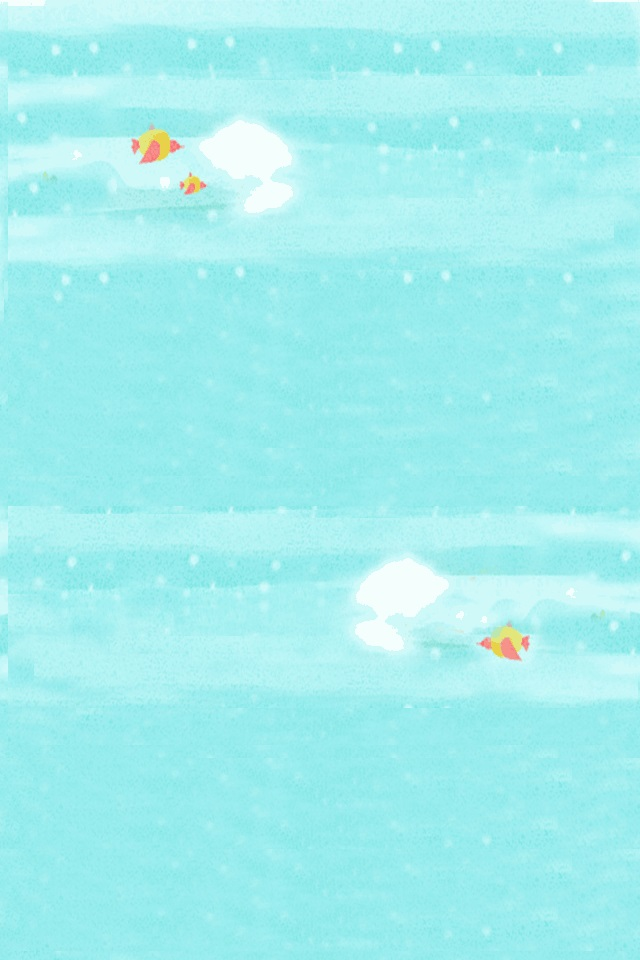
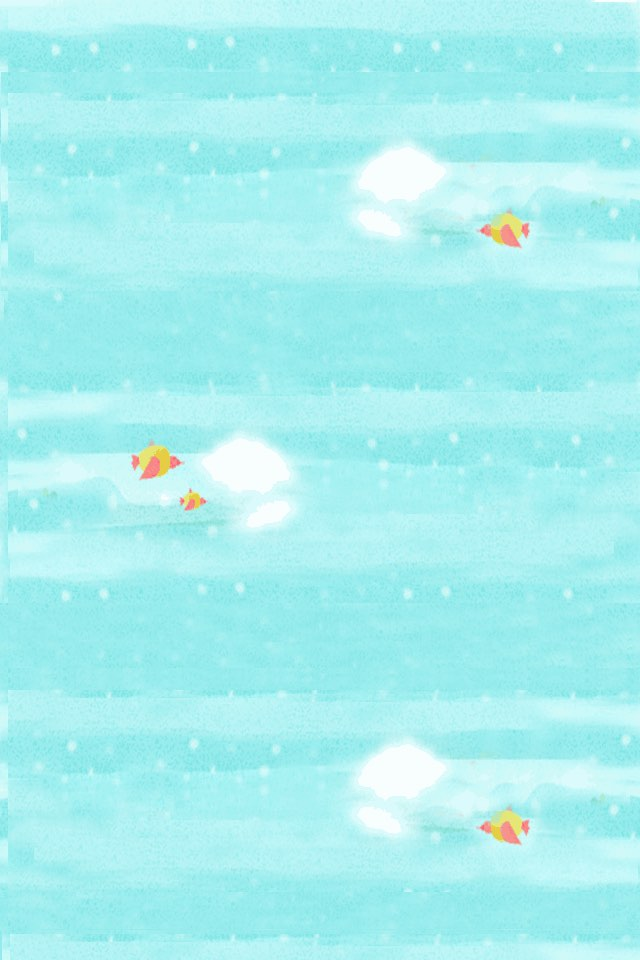
发布v1.0
调整广告，游戏分辨率，元素图

diff --git a/src/BackgroundLayer.js b/src/BackgroundLayer.js
@@ -12,15 +12,14 @@ var BackgroundLayer = cc.Layer.extend({
 
     init:function () {
         this._super();
-        var winsize = cc.director.getWinSize();
-        var centerPos = cc.p(winsize.width / 2, winsize.height / 2);
+
         var spriteBG = new cc.Sprite(res.PlayBG_png);
-        spriteBG.scale = 0.5;
+        //spriteBG.scale = 0.5;
         spriteBG.setPosition(cc.p(0,0));
         spriteBG.anchorX = 0;
         spriteBG.anchorY = 0;
         this.addChild(spriteBG);
-        this.cloude(4, this.bk_index*this.winsize.height);
+        this.cloude(4, this.bk_index*g_game_h);
         this.scheduleUpdate();
     },
     rangeRandom:function (n,m){
@@ -31,12 +30,12 @@ var BackgroundLayer = cc.Layer.extend({
     cloude:function(num, base_y){
         while(num--){
             var cloud = new cc.Sprite(res.cloud_png);
-            cloud.scale = this.rangeRandom(3,7)*0.1;
+            cloud.scale = this.rangeRandom(5,12)*0.1;
             cc.log(this.rangeRandom(0.2,0.5));
-            var move_to_y = base_y + this.rangeRandom(20,this.winsize.height);
-            if (move_to_y < 300)
+            var move_to_y = base_y + this.rangeRandom(20,g_game_h);
+            if (move_to_y < 600)
                 return;
-            var move_to_x = this.rangeRandom(0,2)%2 * this.winsize.width; //0 或 320
+            var move_to_x = this.rangeRandom(0,2)%2 * g_game_w; //0 或 320
 
             cloud.setPosition(cc.p(this.rangeRandom(100,220),move_to_y));
             cloud.runAction(new cc.MoveTo(this.rangeRandom(10,30), cc.p(move_to_x,move_to_y )));
@@ -46,16 +45,16 @@ var BackgroundLayer = cc.Layer.extend({
     },
 
     checkAndReload:function (pos) {
-        if(pos.y > this.winsize.height*this.bk_index){
+        if(pos.y >= g_game_h*this.bk_index){
             this.bk_index++;
 
             var spriteBG = new cc.Sprite(res.PlayBG2_png);
-            spriteBG.setPosition(cc.p(0,this.bk_index*this.winsize.height));
+            spriteBG.setPosition(cc.p(0,this.bk_index*g_game_h));
             spriteBG.anchorX = 0;
             spriteBG.anchorY = 0;
             this.addChild(spriteBG);
 
-            this.cloude(4, this.bk_index*this.winsize.height);
+            this.cloude(4, this.bk_index*g_game_h);
         }
         return true;
     },

diff --git a/src/GameOverScene.js b/src/GameOverScene.js
@@ -15,12 +15,12 @@ var GameOverLayer = cc.LayerColor.extend({
         var centerPos = cc.p(winSize.width / 2, winSize.height / 2);
         
         var spritebg = new cc.Sprite(res.gameover_png);
-        spritebg.scale = 0.5;
+        //spritebg.scale = 0.5;
         spritebg.setPosition(centerPos);
         this.addChild(spritebg);
         
-        this.labelMeter = new cc.LabelTTF(this.high, "Helvetica", 30);
-        this.labelMeter.setPosition(cc.p(winSize.width/2, winSize.height / 2 + 97));
+        this.labelMeter = new cc.LabelTTF(this.high, "Helvetica", 55);
+        this.labelMeter.setPosition(cc.p(winSize.width/2, winSize.height / 2 + 97*2));
         this.addChild(this.labelMeter);
         //计算击败用户百分比
         var hiscore = 620;
@@ -34,12 +34,12 @@ var GameOverLayer = cc.LayerColor.extend({
         else if(percent>=100){
         	percent=99;
         }
-        this.labelPercent = new cc.LabelTTF(percent,  'Times New Roman', 32, cc.size(320,32), cc.TEXT_ALIGNMENT_LEFT);
-        this.labelPercent.setFontFillColor(cc.color.RED);
-        this.labelPercent.setPosition(cc.p(winSize.width/2+163, winSize.height / 2 +59));
+        this.labelPercent = new cc.LabelTTF(percent,  'Helvetica', 45, cc.size(320,45), cc.TEXT_ALIGNMENT_LEFT);
+        this.labelPercent.setFontFillColor(cc.color(250,6,6,255));
+        this.labelPercent.setPosition(cc.p(winSize.width/2+170, winSize.height / 2 +114));
         this.addChild(this.labelPercent);
         
-        cc.MenuItemFont.setFontSize(30);
+        cc.MenuItemFont.setFontSize(60);
         var menuItemRestart = new cc.MenuItemSprite(
         	new cc.Sprite(res.restart_n_png),
         	new cc.Sprite(res.restart_s_png),
@@ -49,7 +49,7 @@ var GameOverLayer = cc.LayerColor.extend({
         this.addChild(menu);
         
         if (WeixinApi.openInWeixin()) { 
-        	this.addChild(new WxShareLayer(res.share_s_png,res.share_n_png,centerPos.x,centerPos.y-50)); 
+        	this.addChild(new WxShareLayer(res.share_s_png,res.share_n_png,centerPos.x,centerPos.y-120));
         }
         else{
             var shareLayer = new ShareLayer("haha,分享了吧","www.xxrmb.com", "http://www.xxrmb.com/buildhouse/res/helloBG.png");

diff --git a/src/StatusLayer.js b/src/StatusLayer.js
@@ -14,38 +14,39 @@ var StatusLayer = cc.Layer.extend({
         this.core = 0;
 
         var winsize = cc.director.getWinSize();
-
-        this.labelMeter = new cc.LabelTTF("得分：0", "Helvetica", 20);
+        this.winsize = winsize;
+        this.labelMeter = new cc.LabelTTF("得分：0", "Helvetica", 40);
         this.labelMeter.setFontFillColor(cc.color(100,100,100,255));
-        this.labelMeter.setPosition(cc.p(winsize.width - 70, winsize.height - 30));
+        this.labelMeter.setPosition(cc.p(winsize.width - 140, winsize.height - 60));
         this.addChild(this.labelMeter);
     },
     updateNextList:function(next_list){
         this.clearNextList();
         for (var i =0; i < next_list.length; i++){
-            var tmp_sprite = this.spritFactory(next_list[i]);
+            var tmp_sprite = this.spritFactory(next_list[i], g_block_index+i+1);
             this.addChild(tmp_sprite);
-            tmp_sprite.setPosition(cp.v(20 +i*40,450));
-            tmp_sprite.scale = 0.5;
+            tmp_sprite.setPosition(cp.v(190 - i*80, this.winsize.height - 60));
+            tmp_sprite.scale *= 0.6;
             this.next_blocks.push(tmp_sprite);
         }
     },
 
-    spritFactory:function(index){
+    spritFactory:function(index, block_index){
         var sprite_name = g_randomArray[index];
         var sprite = null;
         switch (sprite_name){
             case 'addRetBlock':
-                sprite = new cc.Sprite(res.box_png);
+                sprite = new cc.Sprite(g_box_arr[block_index%g_color_box_num]);
                 break;
             case 'addCirBlock':
-                sprite = new cc.Sprite(res.cir_png);
+                sprite = new cc.Sprite(g_cir_arr[block_index%g_color_cir_num]);
                 break;
             case 'addPoly3Block':
                 sprite = new cc.Sprite(res.poly3_png);
                 break;
             case 'addRectangle':
                 sprite = new cc.Sprite(res.rectangle_png);
+                sprite.scale = 0.5;
                 break;
 
         }

diff --git a/index.html b/index.html
@@ -10,12 +10,22 @@
     <meta name="x5-fullscreen" content="true"/>
     <meta name="360-fullscreen" content="true"/>
     <style>
-        body, canvas, div {
+        body, canvas,div {
             -moz-user-select: none;
             -webkit-user-select: none;
             -ms-user-select: none;
             -khtml-user-select: none;
             -webkit-tap-highlight-color: rgba(0, 0, 0, 0);
+        }
+        .game {
+        text-align: center;
+        left:0px;
+        right:0px;
+        bottom: 50px;
+        position: fixed;
+        top:0px;
+
+
         }
     </style>
     <style>
@@ -28,13 +38,33 @@
             background-color:#FFF;
             z-index:999;
         }
-        #ifr{height: 50px!important;}
+        #ifr{height: 50px;}
     </style>
+    <script src="http://static.adwo.com/jssdk/jssdk.min.js"></script>
+    <script type="text/javascript">
+        var test = new adwojs({
+            eid: 'spn',
+            aid: '3e9512871946419895274cb15649d5c8', //申请的android平台pid
+            pid: '688d4ede0a2445cc94877dcac3096a7f', //申请的iphone平台pid
+            bt: false, //是否开启测试广告，用于客户在申请PID过程中的广告测试,默认值为false
+            af: true, //是否自动适合ipad平板广告，默认值为true。
+            width: 320, //广告图片宽度(除320外，还有720宽度，用于ipad中显示)
+            height: 50  //广告图片高度(除50外，还有110高度，用于ipad中显示)
+        });
+        test.send();
+
+    </script>
 
 </head>
-<body style="padding:0; margin: 0; background: #000;">
-<canvas id="gameCanvas" width="0" height="0">
-</canvas>
+<body >
+
+<!--<div class=""><div id="spn"></div></div>-->
+<div class="ad_bottom"><div id="spn"></div></div>
+
+<div class = "game">
+    <canvas id="gameCanvas" width="0" height="0"></canvas>
+</div>
+
 
 <script src="./frameworks/cocos2d-html5/CCBoot.js"></script>
 <script src="main.js"></script>

diff --git a/src/Block.js b/src/Block.js
@@ -18,6 +18,7 @@ var Block = cc.Class.extend({
 
     randomShap:function(index,pos){
     	var shapMethod=g_randomArray[index];
+        g_block_index++;
     	switch (shapMethod){
     	case 'addRetBlock':
     		return this.addRetBlock(pos);
@@ -35,7 +36,8 @@ var Block = cc.Class.extend({
     },
     
     addRetBlock:function (pos) {
-        var block_sprit = new cc.PhysicsSprite(res.box_png);
+
+        var block_sprit = new cc.PhysicsSprite(g_box_arr[g_block_index%g_color_box_num]);
         var contentSize = block_sprit.getContentSize();
         var body = new cp.Body(1.5, cp.momentForBox(1.5, contentSize.width, contentSize.height));
         body.p = (pos);
@@ -80,7 +82,7 @@ var Block = cc.Class.extend({
     },
 
     addCirBlock:function (pos) {
-        var cir_block_sprite = new cc.PhysicsSprite.create(res.cir_png);
+        var cir_block_sprite = new cc.PhysicsSprite.create(g_cir_arr[g_block_index%g_color_cir_num]);
         var contentSize = cir_block_sprite.getContentSize();
         // init physics
         var radius = contentSize.width / 2;
@@ -104,7 +106,7 @@ var Block = cc.Class.extend({
 
     addPoly3Block:function(pos){
         var poly3_block_sprite = new cc.PhysicsSprite.create(res.poly3_png);
-        poly3_block_sprite.scale = 0.5;
+        //poly3_block_sprite.scale = 0.5;
         var contentSize = poly3_block_sprite.getContentSize();
         // init physics
         var body = new cp.Body(1.5, cp.momentForBox(1.5, contentSize.width, contentSize.height));
@@ -112,7 +114,7 @@ var Block = cc.Class.extend({
         body.applyImpulse(cp.v(0, 0), cp.v(0, 0));
         this.space.addBody(body);
 
-        var verts = [-25, -12, 0,12, 25,-12];
+        var verts = [-44, -44, 0,44, 44,-44];
         var shape = new cp.PolyShape(body, verts, cp.vzero);
         shape.setCollisionType(SpriteTag.newblock);
         shape.setFriction(this.u);

diff --git a/src/resource.js b/src/resource.js
@@ -2,12 +2,20 @@ var res = {
     helloBG_png : "res/helloBG.png",
     start_n_png : "res/start_n.png",
     start_s_png : "res/start_s.png",
-    PlayBG_png  : "res/PlayBG.png",
+    PlayBG_png  : "res/PlayBG.jpg",
     PlayBG2_png  : "res/PlayBG2.jpg",
-    box_png  : "res/box.png",
+
+    box_png_b  : "res/box-b.png",
+    box_png_g  : "res/box-g.png",
+    box_png_r  : "res/box-r.png",
+    box_png_y  : "res/box-y.png",
+
     restart_n_png : "res/restart_n.png",
     restart_s_png : "res/restart_s.png",
-    cir_png : "res/cir.png",
+
+    cir_png_b : "res/cir-b.png",
+    cir_png_r : "res/cir-r.png",
+
     poly3_png : "res/poly3.png",
     rectangle_png:"res/Rectangle.png",
     //share
@@ -31,10 +39,14 @@ var g_resources = [
     res.start_s_png,
     res.PlayBG_png,
     res.PlayBG2_png,
-    res.box_png,
+    res.box_png_b,
+    res.box_png_g,
+    res.box_png_r,
+    res.box_png_y,
     res.restart_n_png,
     res.restart_s_png,
-    res.cir_png,
+    res.cir_png_b,
+    res.cir_png_r,
     res.poly3_png,
     res.rectangle_png,
     //LOADING

diff --git a/src/MenuScene.js b/src/MenuScene.js
@@ -9,16 +9,16 @@ var MenuLayer = cc.Layer.extend({
     init:function(){
         //call super class's super function
         this._super();
-
+        //cc.screen.requestFullScreen(targetElement, onFullScreenCallback);
         //2. get the screen size of your game canvas
         var winsize = cc.director.getWinSize();
 
         //3. calculate the center point
-        var centerpos = cc.p(winsize.width / 2, winsize.height / 2);
+        var centerpos = cc.p(winsize.width / 2, winsize.height / 2 + 50);
 
         //4. create a background image and set it's position at the center of the screen
         var spritebg = new cc.Sprite(res.helloBG_png);
-        spritebg.scale = 0.5;
+        //spritebg.scale = 0.5;
         spritebg.setPosition(centerpos);
         this.addChild(spritebg);
 

diff --git a/src/ShareLayer.js b/src/ShareLayer.js
@@ -15,9 +15,9 @@ var ShareLayer = cc.Layer.extend({
         this.url = url;
         this.pic_url = pic_url;
 
-        this.initShareButton(res.qqmb_png,res.qqmb_png,this.shareToWb,cc.p(80,100));
-        this.initShareButton(res.qzone_png,res.qzone_png,this.hareToQzone,cc.p(160,100));
-        this.initShareButton(res.sinamb_png,res.sinamb_png,this.shareToSina,cc.p(240,100));
+        this.initShareButton(res.qqmb_png,res.qqmb_png,this.shareToWb,cc.p(80*2,100*2));
+        this.initShareButton(res.qzone_png,res.qzone_png,this.hareToQzone,cc.p(160*2,100*2));
+        this.initShareButton(res.sinamb_png,res.sinamb_png,this.shareToSina,cc.p(240*2,100*2));
 
     },
     initShareButton:function(pic_on, pic_down, fun, pos){

diff --git a/src/config/GameConfig.js b/src/config/GameConfig.js
@@ -1,9 +1,20 @@
 var MW = MW || {};
 
-var g_groundHight = 64;
+var g_groundHight = 128;
+var g_game_h = 960;
+var g_game_w = 640;
 var g_runnerStartX = 80;
 var g_dead_line = -200;
 var g_max_serial = 2;
+
+var g_color_box_num = 4;
+var g_color_cir_num = 2;
+var g_block_index = 1;
+
+var g_high_scal = 1;
+
+var g_box_arr = [res.box_png_b,res.box_png_g,res.box_png_r,res.box_png_y];
+var g_cir_arr = [res.cir_png_b,res.cir_png_r];
 //var g_block_list = [0,0,0,0,0,1,2,1,0,0,0,0,0,1,0,0,0,3,1,0,2,0,0,0
 //                    ,0,0,0,0,1,2,1,0,0,0,0,0,1,0,0,0,3,1,0,2,0,0,0
 //                    ,0,0,0,0,1,2,1,0,0,0,0,0,1,0,0,0,3,1,0,2,0,0,0

diff --git a/src/GameScene.js b/src/GameScene.js
@@ -28,8 +28,8 @@ var GameScene = cc.Scene.extend({
         space.collisionSlop = 0.5;
         // set up Walls
         var wallBottom = new cp.SegmentShape(staticBody,
-            cp.v(30, g_groundHight),// start point
-            cp.v(295, g_groundHight),// MAX INT:4294967295
+            cp.v(60, g_groundHight),// start point
+            cp.v(590, g_groundHight),// MAX INT:4294967295
             0);// thickness of wall
 
         wallBottom.setFriction(1);

diff --git a/src/RMBLoaderScene.js b/src/RMBLoaderScene.js
@@ -76,7 +76,7 @@ cc.RMBLoaderScene = cc.Scene.extend({
         texture2d.initWithElement(img);
         texture2d.handleLoadedTexture();
         var logo = self._logo = cc.Sprite.create(texture2d);
-        logo.setScale(cc.contentScaleFactor());
+        //logo.setScale(cc.contentScaleFactor());
         logo.x = centerPos.x;
         logo.y = centerPos.y;
         self._bgLayer.addChild(logo, 10);

diff --git a/main.js b/main.js
@@ -1,7 +1,8 @@
 cc.game.onStart = function(){
-    cc.view.setDesignResolutionSize(320, 480, cc.ResolutionPolicy.SHOW_ALL);
+    cc.view.setDesignResolutionSize(640, 960, cc.ResolutionPolicy.FIXED_WIDTH);
 	cc.view.resizeWithBrowserSize(true);
     //load resources
+
 	cc.RMBLoaderScene.preload(g_resources, function () {
         cc.director.runScene(new MenuScene());
     }, this);
